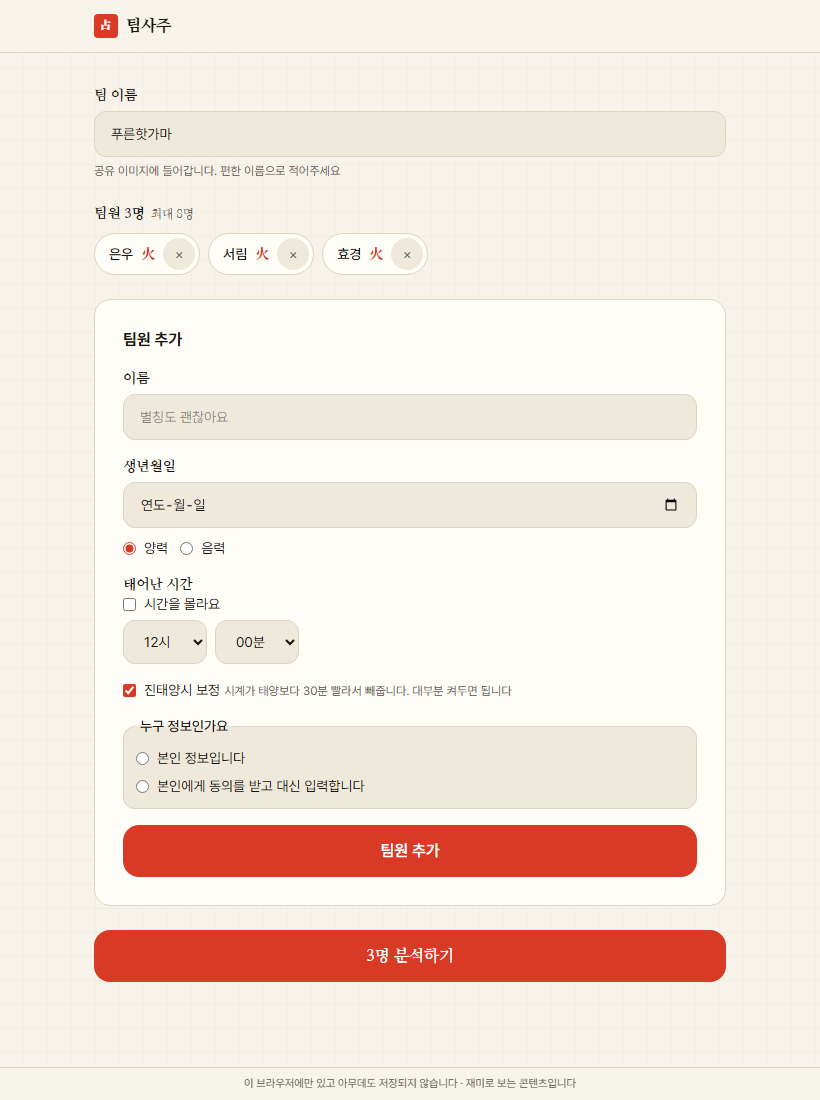
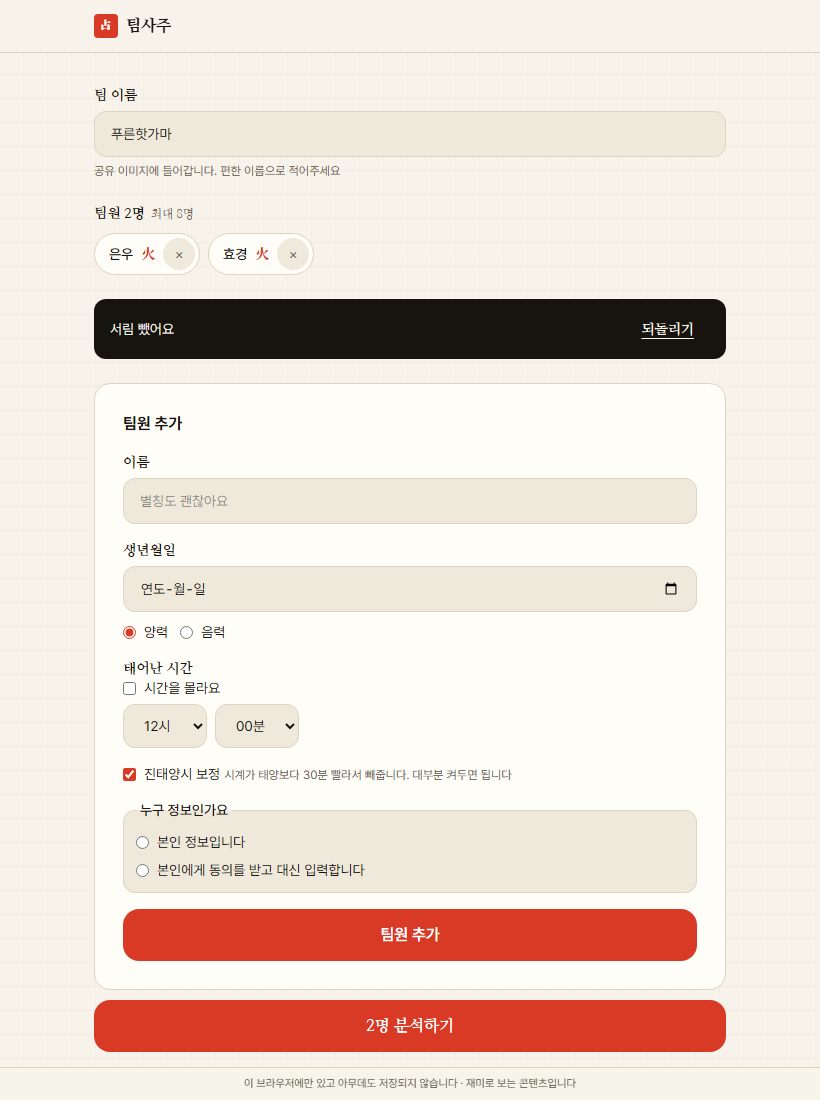
chore: 되돌리기 캡쳐용 시드와 캡쳐 갱신

Changed region(s): [[0.0915, 0.2164, 0.8841, 0.9582]]

diff --git a/src/devSeed.ts b/src/devSeed.ts
@@ -44,9 +44,17 @@ export function seedDemo(): void {
   if (seedMembers()) useTeamStore.setState({ view: 'result' })
 }
 
-/** 팀원을 넣어둔 입력 화면. 팀원 목록과 되돌리기를 보려면 여기로 */
+/** 팀원을 넣어둔 입력 화면. 팀원 목록을 보려면 여기로 */
 export function seedFilledInput(): void {
   if (seedMembers()) useTeamStore.setState({ view: 'input' })
+}
+
+/** 한 명을 지운 직후. 되돌리기가 떠 있는 상태를 캡쳐하려면 여기로 */
+export function seedRemoved(): void {
+  if (!seedMembers()) return
+  useTeamStore.setState({ view: 'input' })
+  const second = useTeamStore.getState().members[1]
+  if (second) useTeamStore.getState().removeMember(second.id)
 }
 
 /** 한 명만 넣은 결과. 1인 모드 화면을 보려면 여기로 */
@@ -77,7 +85,7 @@ export function seedConsent(): void {
 /**
  * `#demo` 결과, `#demo-input` 입력, `#demo-loading` 로딩,
  * `#demo-consent` 동의 모달, `#demo-personal` 개인 명식 탭, `#demo-solo` 1인 결과,
- * `#demo-filled` 팀원이 들어 있는 입력 화면
+ * `#demo-filled` 팀원이 들어 있는 입력 화면, `#demo-removed` 되돌리기가 뜬 상태
  */
 export function applyDemoHash(): void {
   if (window.location.hash === '#demo') seedDemo()
@@ -87,4 +95,5 @@ export function applyDemoHash(): void {
   if (window.location.hash === '#demo-personal') seedDemo()
   if (window.location.hash === '#demo-solo') seedSolo()
   if (window.location.hash === '#demo-filled') seedFilledInput()
+  if (window.location.hash === '#demo-removed') seedRemoved()
 }
